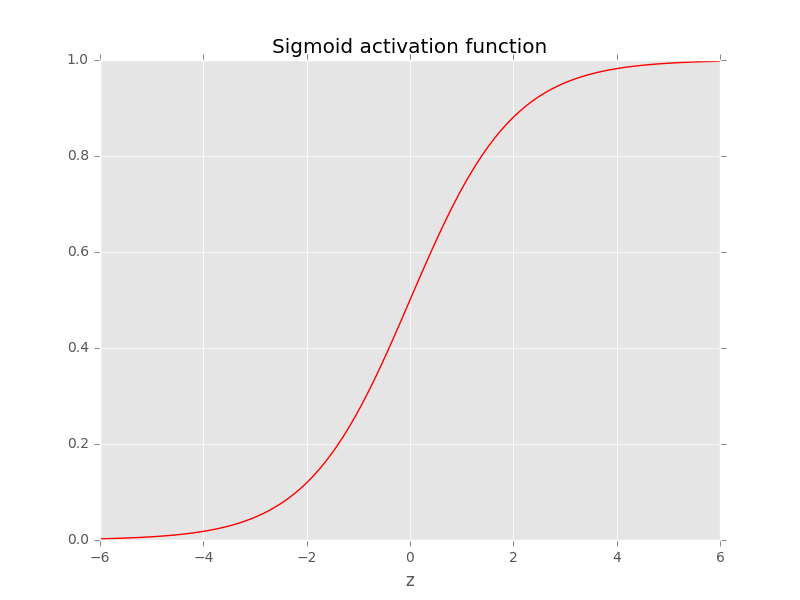
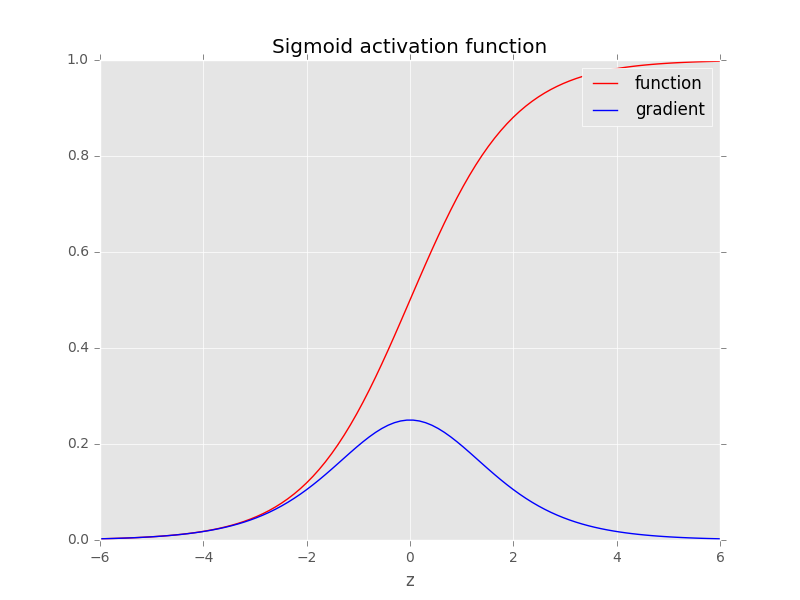
Code cleanup

diff --git a/activation.py b/activation.py
@@ -8,51 +8,66 @@ def linear(z):
     return z
 
 
-def binary(z):
-    return np.where(z > 0, 1, 0)
+def linearGradient(z):
+    return np.ones(z.shape)
 
 
 def relu(z):
     return np.where(z > 0, z, 0)
 
 
+def reluGradient(z):
+    return np.where(z > 0, 1, 0)
+
+
 def sigmoid(z):
     return 1./(1+np.exp(-z))
 
 
+def sigmoidGradient(z):
+    h = sigmoid(z)
+    return h*(1-h)
+
+
 def tanh(z):
     return np.tanh(z)
+
+
+def tanhGradient(z):
+    return 1-np.power(tanh(z), 2.0)
+
 
 z = np.linspace(-6, 6, 100)
 
 plt.style.use('ggplot')
 
 plt.plot(z, linear(z), 'r-')
+plt.plot(z, linearGradient(z), 'b-')
 plt.xlabel('z')
 plt.title('Linear activation function')
+plt.legend(['function', 'gradient'])
 plt.savefig('figs/linear.png')
 plt.close()
 
-plt.plot(z, binary(z), 'r-')
-plt.xlabel('z')
-plt.title('Binary activation function')
-plt.ylim([-0.01, 1.01])
-plt.savefig('figs/binary.png')
-plt.close()
-
 plt.plot(z, relu(z), 'r-')
+plt.plot(z, reluGradient(z), 'b-')
+plt.legend(['function', 'gradient'])
 plt.xlabel('z')
 plt.title('Rectified Linear activation function')
 plt.savefig('figs/relu.png')
 plt.close()
 
 plt.plot(z, sigmoid(z), 'r-')
+plt.plot(z, sigmoidGradient(z), 'b-')
+plt.legend(['function', 'gradient'])
 plt.xlabel('z')
 plt.title('Sigmoid activation function')
 plt.savefig('figs/sigmoid.png')
 plt.close()
 
 plt.plot(z, tanh(z), 'r-')
+plt.plot(z, tanhGradient(z), 'b-')
+plt.legend(['function', 'gradient'])
 plt.xlabel('z')
 plt.title('Hyperbolic Tangent activation function')
 plt.savefig('figs/tanh.png')

diff --git a/forward.py b/forward.py
@@ -1,13 +1,14 @@
 #!/usr/bin/env python
 
 import numpy as np
+from activation import sigmoid
 
 
 def forward(Theta, X, active):
-    m = X.shape[0]
+    N = X.shape[0]
 
     # Add the bias column
-    X_ = np.concatenate((np.ones((m, 1)), X), 1)
+    X_ = np.concatenate((np.ones((N, 1)), X), 1)
 
     # Multiply by the weights
     z = np.dot(X_, Theta.T)
@@ -17,10 +18,25 @@ def forward(Theta, X, active):
 
     return a
 
+
+def predict(Theta1, Theta2, X):
+    h1 = forward(Theta1, X, sigmoid)
+    h2 = forward(Theta2, h1, sigmoid)
+
+    return np.argmax(h2, 1)
+
+
+def accuracy(y_, y):
+    return np.mean((y_ == y.flatten()))*100.
+
+
 if __name__ == "__main__":
     Theta1 = np.load('input/Theta1.npy')
-    X = np.load('input/X_train.npy')[:10]
+    Theta2 = np.load('input/Theta2.npy')
 
-    from activation import sigmoid
+    X = np.load('input/X_train.npy')
+    y = np.load('input/y_train.npy')
 
-    active_value = forward(Theta1, X, sigmoid)
+    y_ = predict(Theta1, Theta2, X)
+
+    print(accuracy(y_, y))
